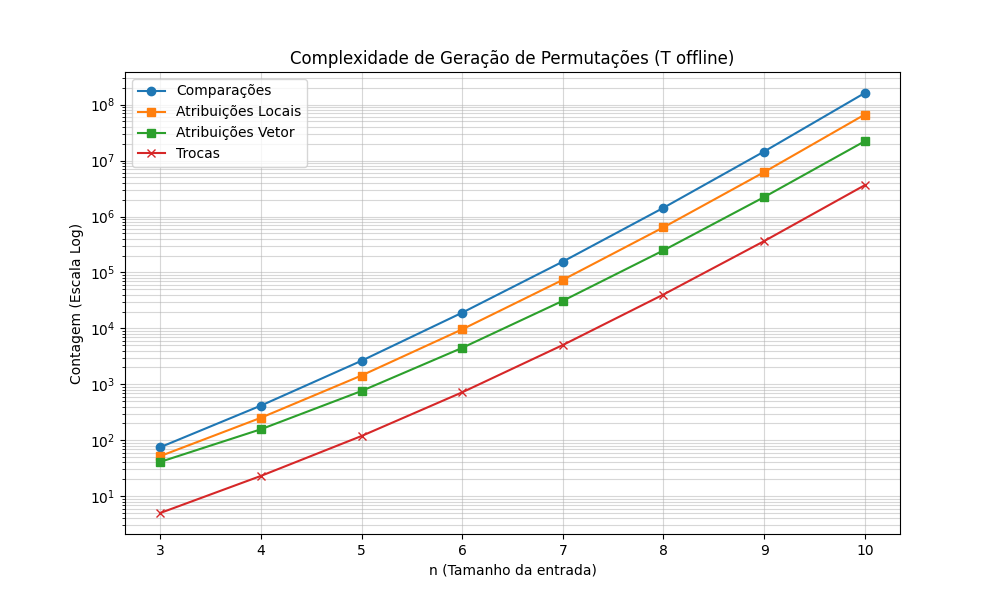
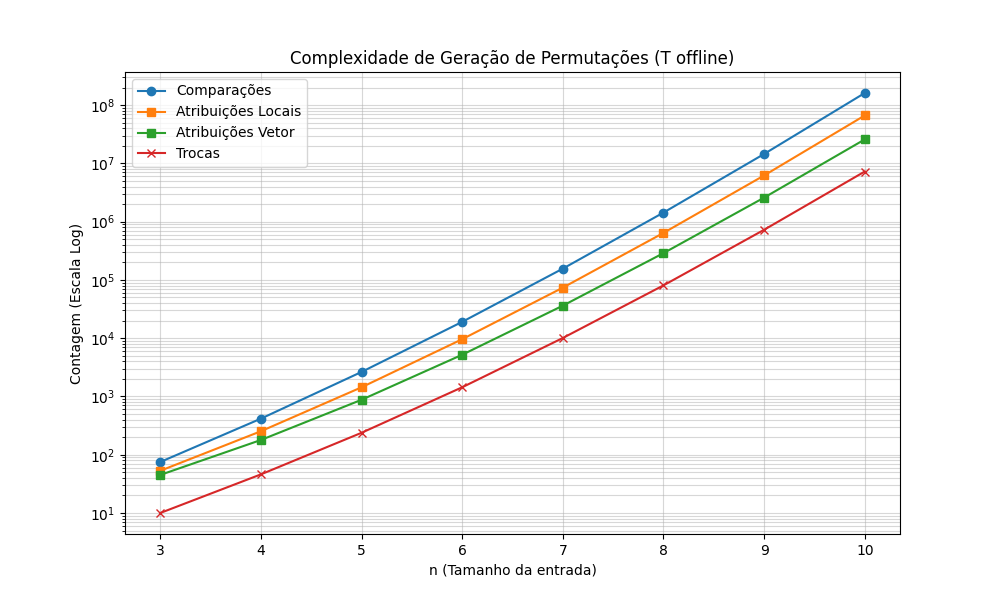
improments and fix experiments

Changed region(s): [[0.093, 0.12, 0.899, 0.9], [0.124, 0.18, 0.155, 0.21], [0.093, 0.15, 0.124, 0.18]]

diff --git a/src/main.py b/src/main.py
@@ -1,8 +1,13 @@
 import matplotlib.pyplot as plt
 import math
+import time
+import random
+import tracemalloc
+import gc
 
 from p import algoritmo_p
 from t import algoritm_t_online, algoritm_t_offline
+from tracker import AlgorithmTracker
 
 def plot_results(n_list, metrics):
     
@@ -22,25 +27,75 @@ def plot_results(n_list, metrics):
         plt.savefig(f'results/{alg}.png')
         #plt.show()
 
+def plot_comparativo_recursos(n_list, metrics):
+    fig, (ax1, ax2) = plt.subplots(1, 2, figsize=(15, 6))
+    
+    for alg_name, data in metrics.items():
+        # Gráfico de Tempo
+        ax1.plot(n_list, data["Tempo"], label=f"{alg_name}", marker='o')
+        # Gráfico de Memória
+        ax2.plot(n_list, data["Memoria"], label=f"{alg_name}", marker='s')
+
+    # Configurações do Gráfico de Tempo
+    ax1.set_yscale('log')
+    ax1.set_xlabel('n (Tamanho da entrada)')
+    ax1.set_ylabel('Tempo (ms) - Escala Log')
+    ax1.set_title('Comparação de Tempo de Execução')
+    ax1.legend()
+    ax1.grid(True, which="both", ls="-", alpha=0.5)
+
+    # Configurações do Gráfico de Memória
+    ax2.set_yscale('log')
+    ax2.set_xlabel('n (Tamanho da entrada)')
+    ax2.set_ylabel('Memória (KB) - Escala Log')
+    ax2.set_title('Comparação de Consumo de Memória (Pico)')
+    ax2.legend()
+    ax2.grid(True, which="both", ls="-", alpha=0.5)
+
+    plt.tight_layout()
+    plt.savefig('results/recursos.png')
+    #plt.show()
+
 algoritms = {"T online": algoritm_t_online, "T offline": algoritm_t_offline}
 values_n = list(range(3, 11))
 
+dict_vector = {}
+for n in values_n:
+    vetor = list(range(1, n + 1))
+    #random.shuffle(vetor) 
+    dict_vector[n] = vetor
+
 metrics = {}
 for name in algoritms:
-    metrics[name] = {"Comparações": [], "Atribuições Local": [], "Atribuições V": [], "Trocas": []}
+    metrics[name] = {"Comparações": [], "Atribuições Local": [], "Atribuições V": [], "Trocas": [], "Memoria": [], "Tempo": [] }
 
     print(f"\n\n\t\t*** Algoritm: {name} ***")
-    print("-" * 97)
-    print(f"{'n':<4} | {'n!':<10} | {'Comparacoes':<12} | {'Atribuicoes (local vars)':<25} | {'Atribuicoes (to/from  V)':<23} | {'Trocas':<8}")
-    print("-" * 97)
+    print("-" * 140)
+    print(f"{'n':<4} | {'n!':<10} | {'Comparacoes':<12} | {'Atribuicoes (local vars)':<25} | {'Atribuicoes (to/from  V)':<23} | {'Trocas':<8} | {'Memoria (kb)':<15} |  {'Tempo (ms)':<8}")
+    print("-" * 140)    
 
-    for n in values_n:
-        tracker = algoritms[name](n)
+    for n, vector in dict_vector.items():
+        gc.collect()
+        tracemalloc.start()
+
+        tracker = AlgorithmTracker()
+
+        tracker.start_time = time.perf_counter()
+        algoritms[name](vector, tracker)
+        tracker.end_time = time.perf_counter()
+
+        _, peak = tracemalloc.get_traced_memory()
+        tracemalloc.stop()
+        tracker.memory_peak_kb = peak / 1024
+
         metrics[name]["Comparações"].append(tracker.comparisons)
         metrics[name]["Atribuições Local"].append(tracker.att_local)
         metrics[name]["Atribuições V"].append(tracker.att_vector)
         metrics[name]["Trocas"].append(tracker.exchanges)
+        metrics[name]["Memoria"].append(tracker.memory_peak_kb)
+        metrics[name]["Tempo"].append(tracker.duration_ms())
         
-        print(f"{n:<4} | {math.factorial(n):<10} | {tracker.comparisons:<12} | {tracker.att_local:<25} | {tracker.att_vector:<23}  | {tracker.exchanges:<8} ")
+        print(f"{n:<4} | {math.factorial(n):<10} | {tracker.comparisons:<12} | {tracker.att_local:<25} | {tracker.att_vector:<23}  | {tracker.exchanges:<8} | {tracker.memory_peak_kb:<15.2f} | {tracker.duration_ms():<8.4f} ")
 
-plot_results(values_n, metrics)    
+plot_results(values_n, metrics)
+plot_comparativo_recursos(values_n, metrics)

diff --git a/src/t.py b/src/t.py
@@ -1,8 +1,9 @@
 from tracker import log_permutation, AlgorithmTracker
 
-def algoritm_t_online(n):
-    stats = AlgorithmTracker()
-    a = list(range(1, n + 1))
+def algoritm_t_online(vector, stats:AlgorithmTracker):
+    
+    a = list(vector)
+    n = len(a)
     d = [-1] * n
     stats.transactions = []
     stats.att_vector += (n *2)
@@ -20,24 +21,29 @@ def algoritm_t_online(n):
             stats.att_local += 1
 
             stats.comparisons += 1
-            if 0 <= prox < n:
+            if prox >= 0:
 
                 stats.comparisons += 1
-                if a[i] > a[prox]:
+                if prox < n:
 
                     stats.comparisons += 1
-                    if a[i] > mobile:
-                        mobile = a[i]
-                        idx_mobile = i
-                        stats.att_local += 2
+                    if a[i] > a[prox]:
+
+                        stats.comparisons += 1
+                        if a[i] > mobile:
+                            mobile = a[i]
+                            idx_mobile = i
+                            stats.att_local += 2
 
         stats.comparisons += 1
         if idx_mobile == -1:
             break
 
         destination = idx_mobile + d[idx_mobile]
+        stats.att_local += 1
+
         stats.transactions.append((idx_mobile, destination))
-        stats.att_local += 2
+        stats.att_vector += 1
     
         a[idx_mobile], a[destination] = a[destination], a[idx_mobile]
         d[idx_mobile], d[destination] = d[destination], d[idx_mobile]
@@ -45,20 +51,20 @@ def algoritm_t_online(n):
         stats.att_vector += 4
 
         for i in range(n):
-            stats.comparisons += 2
+            stats.comparisons += 1
             if a[i] > mobile:
                 d[i] = -d[i]
                 stats.att_vector += 1
 
         log_permutation(a)
 
-    return stats
-
 def __transaction_table(stats:AlgorithmTracker, n):
     a = list(range(1, n + 1))
     direction = [-1] * n
+    stats.att_vector += (n * 2)
+
     transactions = []
-    stats.att_vector += (n * 2) + 1
+    stats.att_local += 1
 
     while True:
         mobile = -1
@@ -87,12 +93,17 @@ def __transaction_table(stats:AlgorithmTracker, n):
             break
         
         prox = idx_mobile + direction[idx_mobile]
-        transactions.append((idx_mobile, prox)) 
-        stats.att_local += 2
+        stats.att_local += 1
+
+        transactions.append((idx_mobile, prox))
+        stats.att_vector += 1
 
         a[idx_mobile], a[prox] = a[prox], a[idx_mobile]
+        stats.exchanges += 1
+        stats.att_vector += 2
+
         direction[idx_mobile], direction[prox] = direction[prox], direction[idx_mobile]
-        stats.att_vector += 4
+        stats.att_vector += 2
 
         for i in range(n):
             stats.comparisons += 1
@@ -102,19 +113,21 @@ def __transaction_table(stats:AlgorithmTracker, n):
 
     stats.transactions = transactions
 
-def algoritm_t_offline(n):
-    stats = AlgorithmTracker()
+def algoritm_t_offline(vector, stats:AlgorithmTracker):
+    n = len(vector)
     __transaction_table(stats, n)
-    a = list(range(1, n + 1))
+    a = list(vector)
     stats.att_vector += n
     
     log_permutation(a)
 
     for (idx_i, idx_j) in stats.transactions:
-        a[idx_i], a[idx_j] = a[idx_j], a[idx_i]
+        temp = a[idx_i]
+        stats.att_local += 1 
+
+        a[idx_i] = a[idx_j]
+        a[idx_j] = temp
         stats.exchanges += 1
         stats.att_vector += 2 
         
         log_permutation(a)
-
-    return stats

diff --git a/src/tracker.py b/src/tracker.py
@@ -3,10 +3,14 @@ def log_permutation(p):
 
 class AlgorithmTracker:
     def __init__(self):
-        self.attributions = 0  #atribuicoes
         self.att_local = 0  #atribuicoes locais
         self.att_vector = 0  #atribuicoes de vetor
         self.comparisons = 0   #comparacoes
         self.exchanges = 0     #trocas
         self.permutations = 0  #permutacoes
-        self.transactions = [] #transacoes
+        self.memory_peak_kb = 0.0
+        self.start_time = 0
+        self.end_time = 0
+
+    def duration_ms(self):
+        return (self.end_time - self.start_time) * 1000

diff --git a/README.md b/README.md
@@ -17,48 +17,57 @@ The primary goal of this project is to compare different strategies for generati
     * **Online**: Generates permutations in real time, executing all search and logic reversal at each step, while recording them as "transactions" (swap indices).
     * **Offline**: Focuses on optimized execution through a pre-computed **Transition Table**. In this mode, permutation generation involves $O(1)$ complexity per step, eliminating searches and comparisons by only following previously recorded indices.
 
-## Analysis Metrics
+## Test & Analysis Methodology: 
+
+To ensure the validity of the experimental data, the main script executes: 
+1. **Cleanup:** Garbage collection (gc.collect()) between runs to avoid memory residue from previous tests. 
+2. **Isolation:** Resetting the memory tracer (tracemalloc) for each value of $n$. 
+3. **Standardization:** Using the same input vector (randomly shuffled) for all algorithms in a given $n$.
 
 For rigorous analysis according to academic guidelines, assignments ($A$) are divided into:
 * **$A$ (local vars)**: Assignments to control variables and search logic (e.g., `mobile`, `prox_idx`).
 * **$A$ (to/from V)**: Assignments that directly manipulate the permutation and mechanics vectors (`a` and `d`).
 * **Comparisons**: Logical tests to find moving elements and boundary limits.
 * **Swaps**: Physical movements of elements in the vector.
+* **Memory (KB)**: Peak amount of RAM allocated during execution.
+* **Time (ms)**: Total execution time in milliseconds.
 
 ## Performance Analysis
 
 ![img1](results/T%20offline.png) ![img2](results/T%20online.png)
+
+![img3](results/recursos.png)
 
 The project evaluates the "viability range" for precomputing sequences:
 * **Small $n$ ($n \le 11$)**: Precomputing the transition table is highly efficient as it eliminates the $O(n)$ search for the mobile element during execution.
 * **Large $n$ ($n \ge 12$)**: Algorithm P is preferred due to memory constraints, as the transition table size grows factorially ($n!$).
 
                 *** Algoritm: T online ***
--------------------------------------------------------------------------------------------------
-n    | n!         | Comparacoes  | Atribuicoes (local vars)  | Atribuicoes (to/from  V) | Trocas  
--------------------------------------------------------------------------------------------------
-3    | 6          | 90           | 52                        | 27                       | 5        
-4    | 24         | 508          | 252                       | 106                      | 23       
-5    | 120        | 3230         | 1436                      | 515                      | 119      
-6    | 720        | 23388        | 9606                      | 3036                     | 719      
-7    | 5040       | 191506       | 73708                     | 21037                    | 5039     
-8    | 40320      | 1753904      | 640914                    | 167198                   | 40319    
-9    | 362880     | 17781102     | 6210462                   | 1497759                  | 362879   
-10   | 3628800    | 197769580    | 66516018                  | 14924320                 | 3628799  
+--------------------------------------------------------------------------------------------------------------------------------------------
+n    | n!         | Comparacoes  | Atribuicoes (local vars)  | Atribuicoes (to/from  V) | Trocas   | Memoria (kb)    |  Tempo (ms)
+--------------------------------------------------------------------------------------------------------------------------------------------
+3    | 6          | 88           | 47                        | 32                       | 5        | 2.40            | 0.0602   
+4    | 24         | 494          | 229                       | 129                      | 23       | 1.65            | 0.2046   
+5    | 120        | 3151         | 1317                      | 634                      | 119      | 6.81            | 1.5124   
+6    | 720        | 22914        | 8887                      | 3755                     | 719      | 39.34           | 10.1741  
+7    | 5040       | 188273       | 68669                     | 26076                    | 5039     | 277.71          | 72.3029  
+8    | 40320      | 1728712      | 600595                    | 207517                   | 40319    | 2438.98         | 661.8379 
+9    | 362880     | 17559351     | 5847583                   | 1860638                  | 362879   | 22594.34        | 6330.6767 
+10   | 3628800    | 195592310    | 62887219                  | 18553119                 | 3628799  | 228483.66       | 69299.7360 
 
 
                 *** Algoritm: T offline ***
--------------------------------------------------------------------------------------------------
-n    | n!         | Comparacoes  | Atribuicoes (local vars)  | Atribuicoes (to/from  V) | Trocas  
--------------------------------------------------------------------------------------------------
-3    | 6          | 75           | 52                        | 41                       | 5        
-4    | 24         | 416          | 252                       | 157                      | 23       
-5    | 120        | 2635         | 1436                      | 759                      | 119      
-6    | 720        | 19074        | 9606                      | 4481                     | 719      
-7    | 5040       | 156233       | 73708                     | 31123                    | 5039     
-8    | 40320      | 1431352      | 640914                    | 247845                   | 40319    
-9    | 362880     | 14515191     | 6210462                   | 2223527                  | 362879   
-10   | 3628800    | 161481590    | 66516018                  | 22181929                 | 3628799  
+--------------------------------------------------------------------------------------------------------------------------------------------
+n    | n!         | Comparacoes  | Atribuicoes (local vars)  | Atribuicoes (to/from  V) | Trocas   | Memoria (kb)    |  Tempo (ms)
+--------------------------------------------------------------------------------------------------------------------------------------------
+3    | 6          | 75           | 53                        | 45                       | 10       | 1.45            | 0.0458   
+4    | 24         | 416          | 253                       | 179                      | 46       | 1.65            | 0.1378   
+5    | 120        | 2635         | 1437                      | 877                      | 238      | 6.81            | 152.4225 
+6    | 720        | 19074        | 9607                      | 5199                     | 1438     | 39.34           | 8.9450   
+7    | 5040       | 156233       | 73709                     | 36161                    | 10078    | 277.71          | 77.9957  
+8    | 40320      | 1431352      | 640915                    | 288163                   | 80638    | 2438.98         | 597.1932 
+9    | 362880     | 14515191     | 6210463                   | 2586405                  | 725758   | 22594.34        | 5900.3488 
+10   | 3628800    | 161481590    | 66516019                  | 25810727                 | 7257598  | 228483.66       | 65336.1439 
 
 ## Project Structure
 
